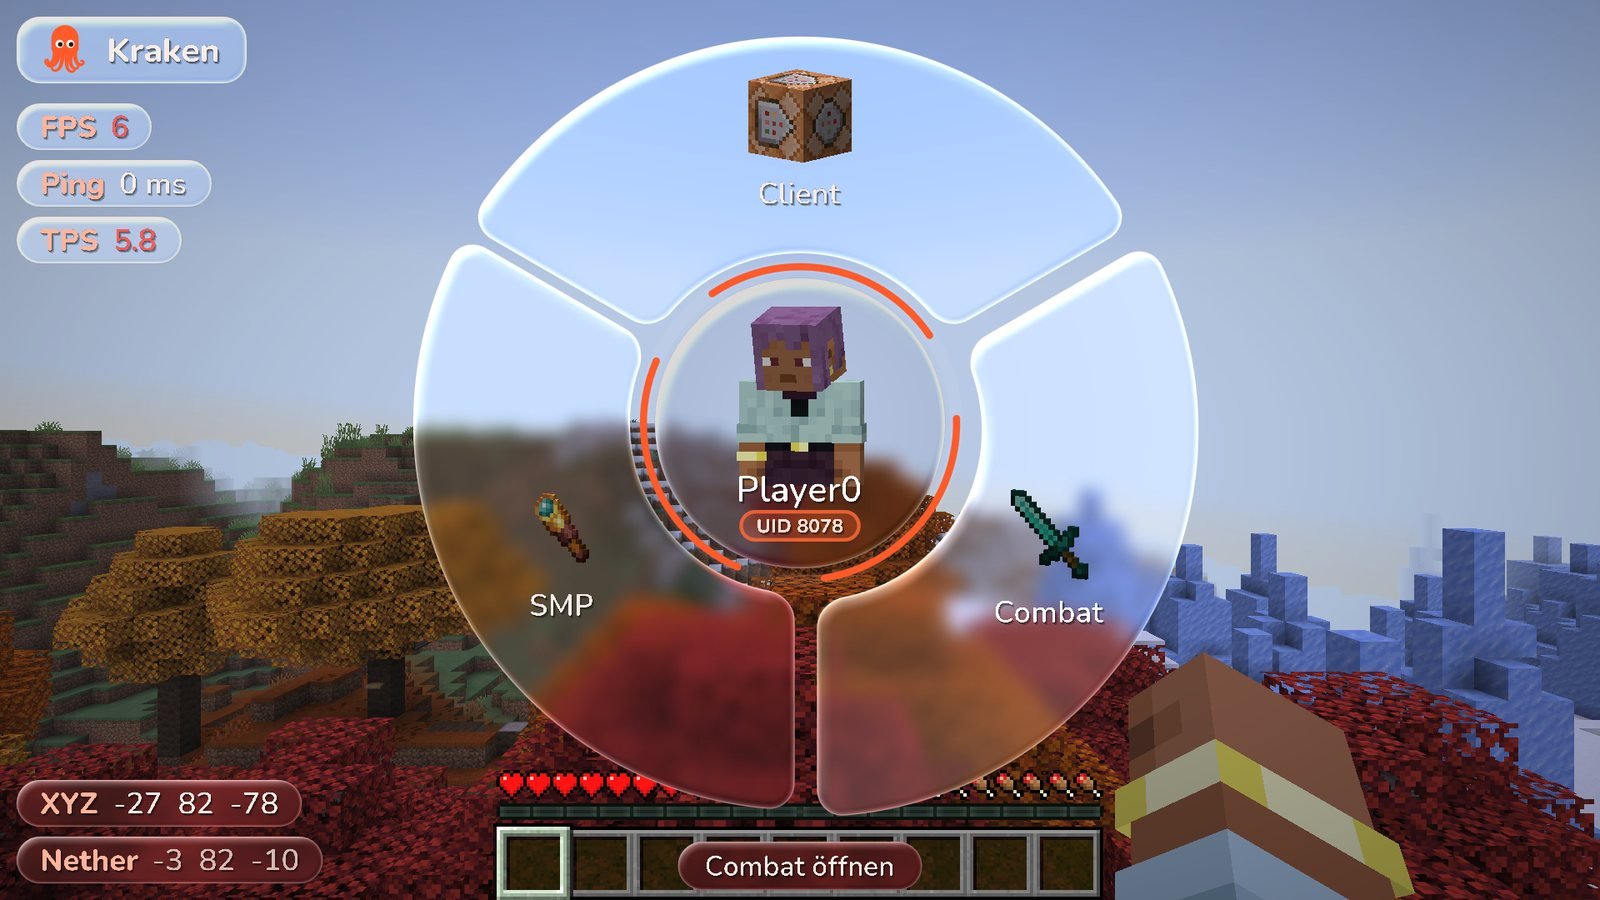
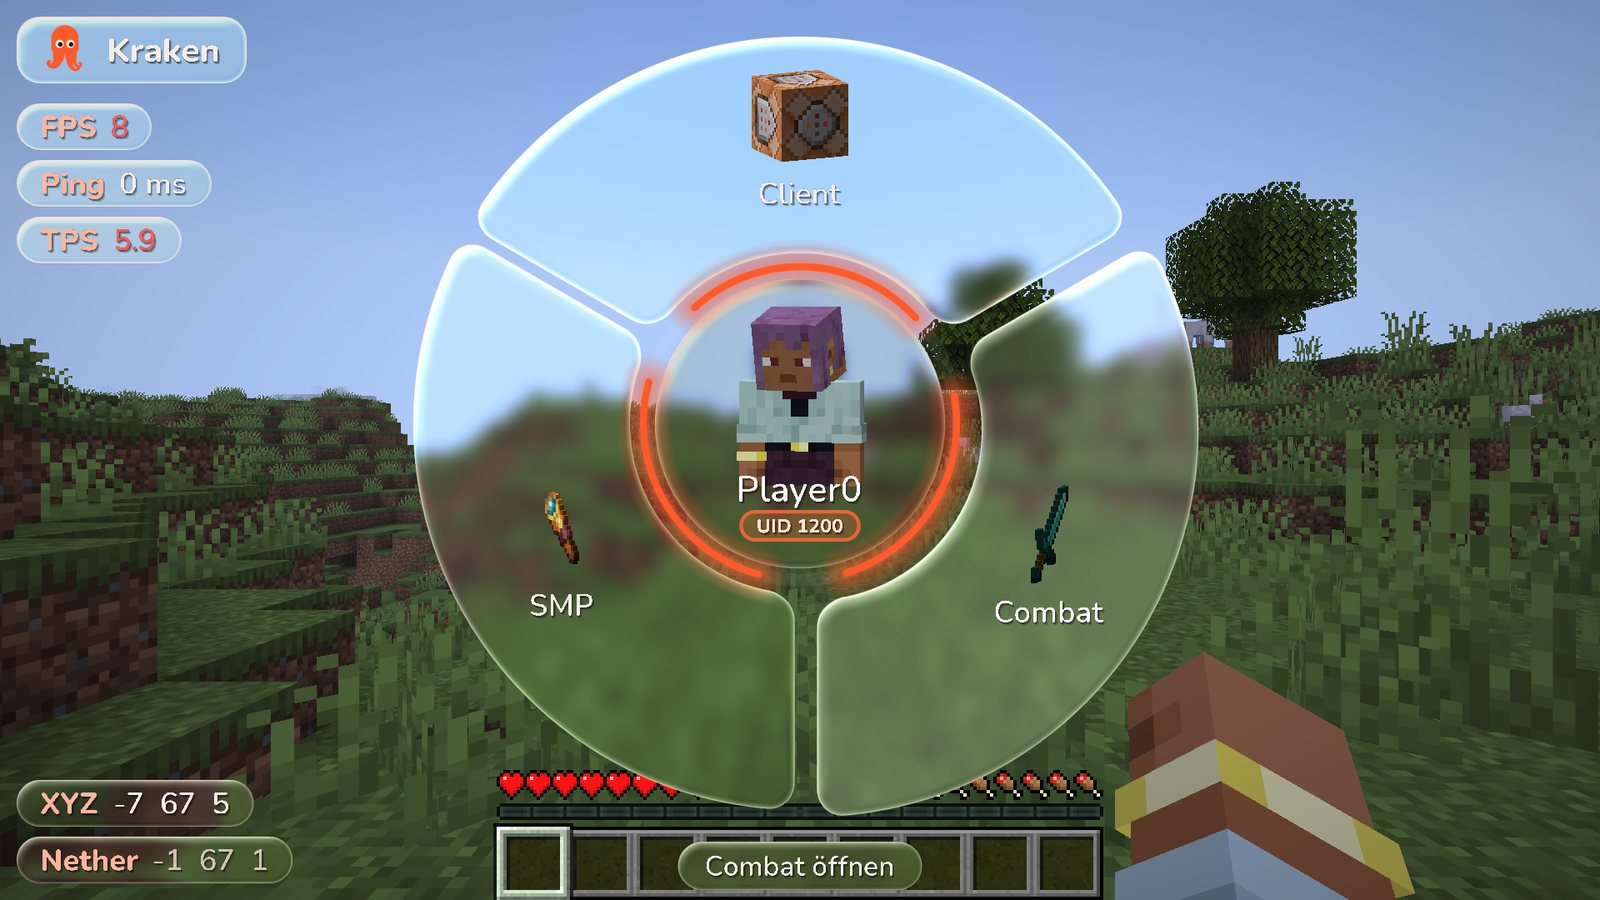
Wheel: soft glow around the three orange arcs
New Shapes.ringGlow draws an even glow around an arc with round ends
(both sides plus half-discs around the ends, no overlapping pieces), so
the glow is equally light at every point of the rings. Only the rings
glow; it fades in together with the arc sweep animation.

Claude-Session: https://claude.ai/code/session_01MUPP6yAn7mZPsT3PjRrRs4

diff --git a/src/main/java/dev/kraken/gui/Shapes.java b/src/main/java/dev/kraken/gui/Shapes.java
@@ -350,6 +350,27 @@ public final class Shapes {
         return this;
     }
 
+    /**
+     * Even glow around an arc with round ends (the shape of a "capsule" bent along a circle): fades from
+     * {@code color} at the arc border to transparent {@code width} further out, on both sides and
+     * around both ends, without overlapping pieces (so the glow is equally strong everywhere).
+     */
+    public Shapes ringGlow(float cx, float cy, float r, float lineWidth, float a0, float a1, float width, int color) {
+        if (a1 - a0 < 1e-4f) return this;
+        int clear = color & 0x00FFFFFF;
+        float h = lineWidth / 2f;
+        // outside and inside of the arc
+        sector(cx, cy, r + h, r + h + width, a0, a1, 0, color, clear);
+        sector(cx, cy, Math.max(0, r - h - width), r - h, a0, a1, 0, clear, color);
+        // half-discs around the two ends, facing away from the arc
+        float sx = cx + (float) Math.sin(a0) * r, sy = cy - (float) Math.cos(a0) * r;
+        float ex = cx + (float) Math.sin(a1) * r, ey = cy - (float) Math.cos(a1) * r;
+        float pi = (float) Math.PI;
+        sector(sx, sy, h, h + width, a0 - pi, a0, 0, color, clear);
+        sector(ex, ey, h, h + width, a1, a1 + pi, 0, color, clear);
+        return this;
+    }
+
     /** Soft radial glow: a ring fading from {@code color} at r to transparent at r + width. */
     public Shapes glow(float cx, float cy, float r, float width, float a0, float a1, int color) {
         int clear = color & 0x00FFFFFF;

diff --git a/src/main/java/dev/kraken/gui/RadialScreen.java b/src/main/java/dev/kraken/gui/RadialScreen.java
@@ -413,6 +413,8 @@ public class RadialScreen extends Screen {
         for (float[] arc : arcs) {
             float a0 = arc[0] * TAU + rot;
             float a1 = a0 + (arc[1] - arc[0]) * TAU * sweep;
+            // soft, even glow around the whole arc (also around the rounded ends) – only the rings glow
+            c.ringGlow(cx, cy, ringR, aw, a0, a1, R * 0.065f, Shapes.alpha(ACCENT, 0.55f * Math.min(1f, sweep * 1.5f)));
             c.arc(cx, cy, ringR, aw, a0, a1, ACCENT);
             // rounded arc caps
             c.circle(cx + (float) Math.sin(a0) * ringR, cy - (float) Math.cos(a0) * ringR, aw / 2f, ACCENT);
